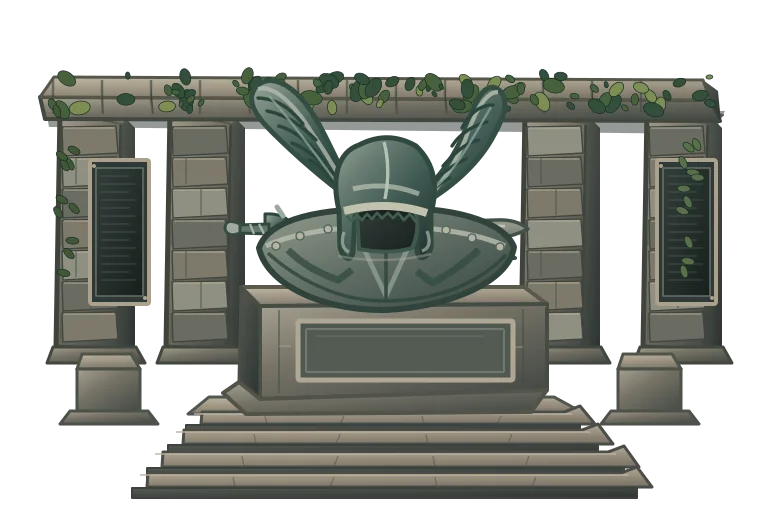
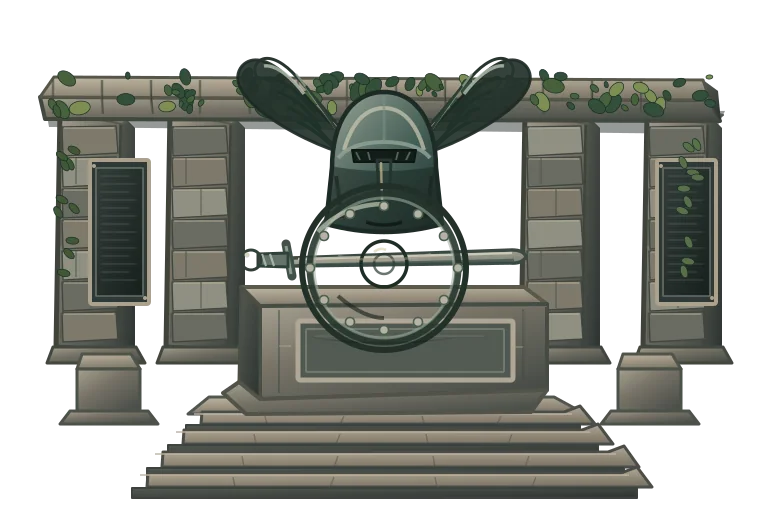
Westhofen V3b: redesign bronze module from fresh reference photo analysis (review only) (#280)
* Redesign Westhofen V3 bronze module from fresh photo structural analysis (round boss shield, nasal helmet, layered feather wings)

* review(westhofen-v3): publish 64/128px V2-vs-V3 bronze review rasters (review only, not runtime)

* docs(westhofen-v3): record user visual acceptance of the V3b bronze module

---------

Changed region(s): [[0.2812, 0.0938, 0.7188, 0.6875]]

diff --git a/docs/graphics/westhofen-v3/README.md b/docs/graphics/westhofen-v3/README.md
@@ -1,6 +1,6 @@
 # Westhofen V3 – Bronzeemblem-Kandidat
 
-**Status:** `source_only_visual_review_pending`. Keine Runtime-Integration.
+**Status:** `bronze_module_user_approved_20261114` (Runtime-Integration folgt; Stein/Relief/Podest aus Issue #252 bleiben offen). Keine Runtime-Integration.
 
 Anlass: [Issue #252](https://github.com/imbaaalanced-dot/a/issues/252); die V2-Grafik zeichnet technisch korrekt, die Bronze-Silhouette wurde nach Vergleich der echten Gameplay-Screenshots mit Nutzerfotos nicht visuell freigegeben.
 
@@ -25,3 +25,19 @@ Die Originalfotos sind Nutzerdateien **außerhalb dieses öffentlichen Repositor
 `python tools/export-westhofen-v3.py --out build/westhofen-v3` erzeugt transparente 768×512-WebP/PNG-Prüfkandidaten, 64/128px-Hell-/Dunkelansichten und eine V2-V3-Gegenüberstellung. Der zugehörige GitHub-Workflow lädt sie als **Review-Artefakt** hoch.
 
 Weitere Gates vor jeder Runtime-Nutzung: Vergleich der tatsächlichen Pixelbilder gegen die Fotos, historische Material-/Reliefkorrektur, separater Level-7-Chromium-Desktop/Touch-Test und echter Android-Test (4 GB RAM). V2 und Spielstände werden nicht überschrieben. Merge und Veröffentlichung benötigen gesonderte Freigabe.
+
+
+## Neuanlauf V3b (14.11.2026)
+
+Marcel Schneider hat den ersten V3-Bronzeentwurf am 14.11.2026 abgelehnt und das gesamte Bronze-Modul neu anfassen lassen. Der V3b-Neuentwurf folgt der Strukturanalyse der frisch bereitgestellten Referenzfotos vom 14.11.2026 (private Nutzerdateien, nicht im Repository):
+
+- Runder, gewölbter Schild mit erhabenem Rand, zentralem Schildbuckel und Nietaugen (statt breiter Querovale), leicht die Helmbasis überdeckend.
+- Rundhelm mit Nasenschutz und horizontaler Sehschlitzöffnung (Vikingerform), vor Schwert und Flügeln.
+- Beidseitige, aufwärts-außen gerichtete Flügel mit geschichtetem Federaufbau und einzeln modellierten Federrippen, Spannweite je Flügel etwa eine Helmbreite.
+- Horizontal liegendes Schwert hinter dem Schild: Klinge nach rechts, gerader senkrechter Parierstangen-Kreuz, Griff links mit Knauf.
+- Dunkle Patinabasis mit helleren abgetragenen Bronze-Höhen.
+
+Status bleibt `source_only_visual_review_pending`; keine Runtime-Integration vor kunstabnahme. Die Vergleichsraster (V2 gegen V3b, 64/128 px, hell/dunkel) werden über den Review-Workflow unter `review-20261114/` veröffentlicht.
+
+
+- **Kunstabnahme 14.11.2026:** Marcel Schneider hat das V3b-Bronzemodul gegen die Referenzfotos freigegeben (Canvas-Review, 64/128-px-Bögen unter `review-20261114/`).
